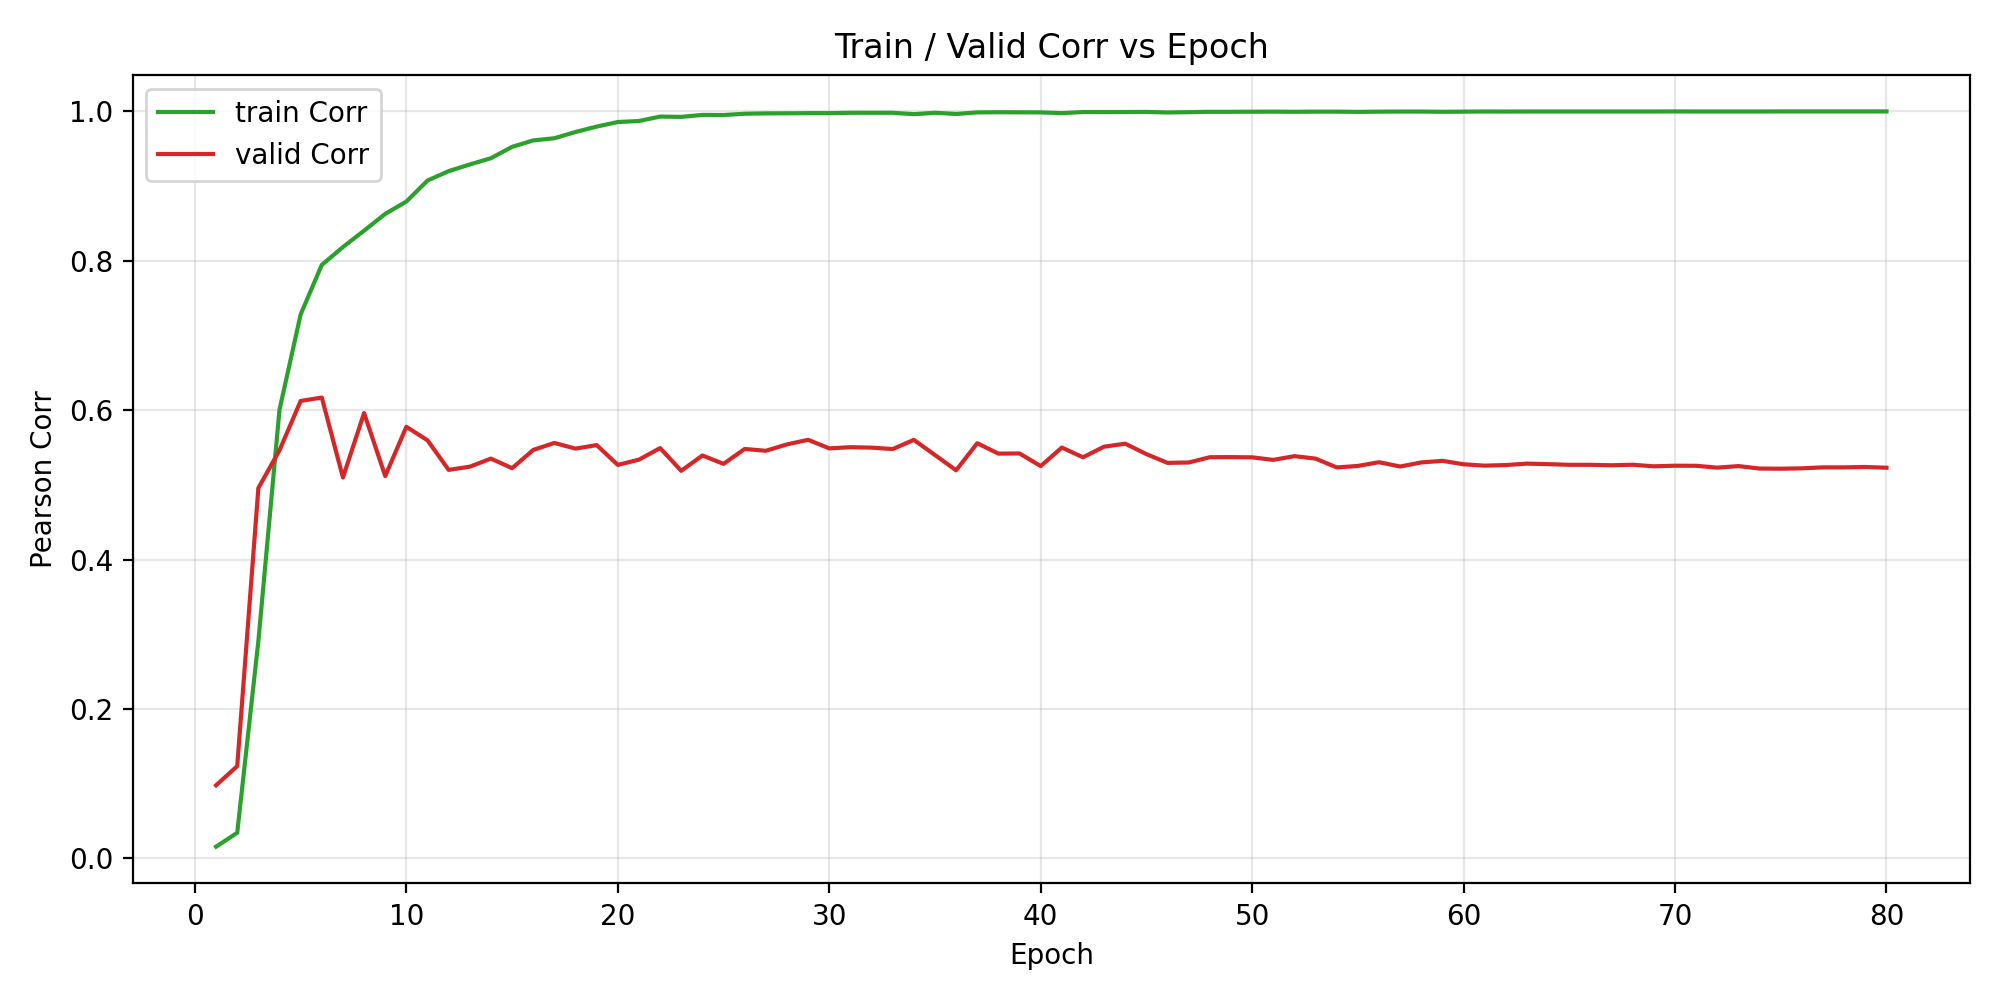
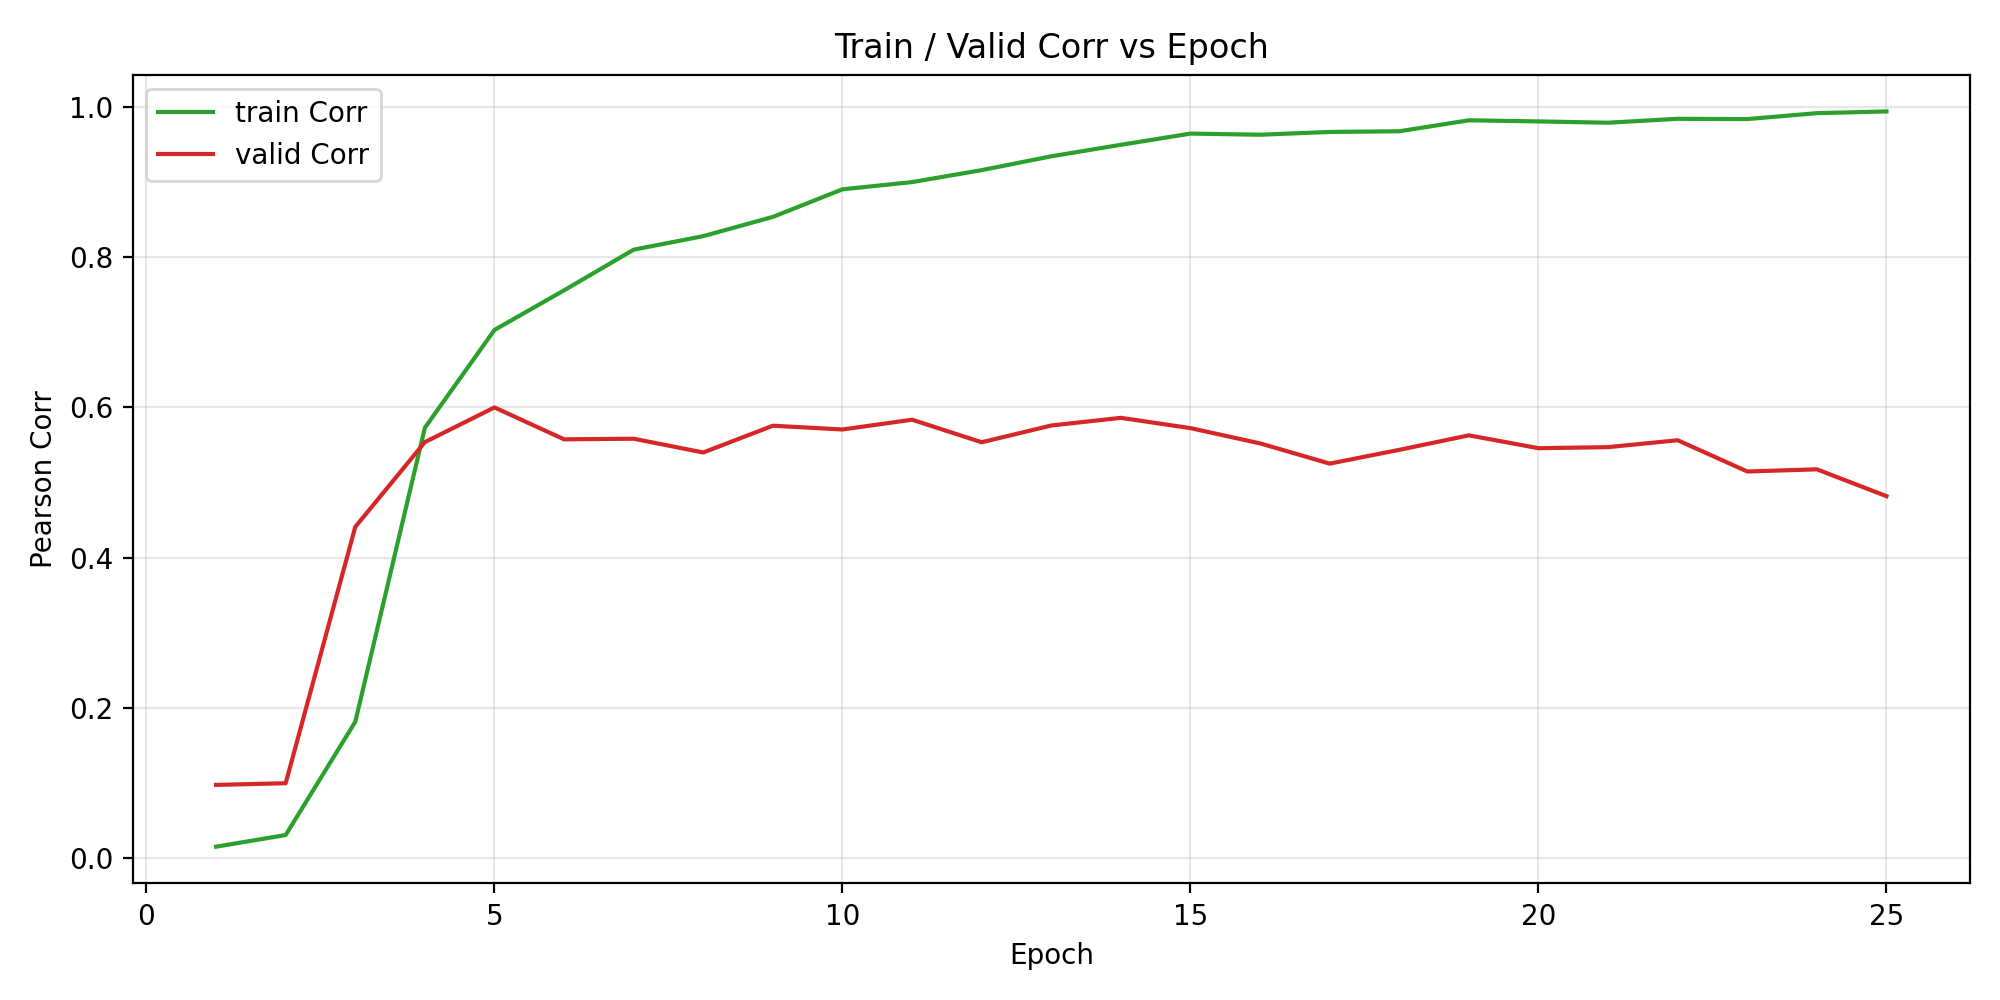
3.17

diff --git a/plot_valid_curve.py b/plot_valid_curve.py
@@ -2,11 +2,32 @@ import os
 import pandas as pd
 import matplotlib.pyplot as plt
 
-csv_path = "/home/yechenlu/KuDA/checkpoints/SIMS/coldstart/valid_curve.csv"
+csv_path = "/home/yechenlu/KuDA/checkpoints/SIMS/valid_curve.csv"
 
 assert os.path.isfile(csv_path), f"CSV not found: {csv_path}"
 
-df = pd.read_csv(csv_path)
+# 兼容混合格式：旧 run 写 7 列，新 run 写 9 列，取最后一次出现的表头及其后的数据
+with open(csv_path, encoding="utf-8") as f:
+    lines = f.readlines()
+header_idx = None
+for i in range(len(lines) - 1, -1, -1):
+    if lines[i].strip().startswith("epoch"):
+        header_idx = i
+        break
+if header_idx is None:
+    raise ValueError("No header line found in CSV")
+header = [c.strip() for c in lines[header_idx].strip().split(",")]
+n_cols = len(header)
+data_rows = []
+for i in range(header_idx + 1, len(lines)):
+    parts = [p.strip() for p in lines[i].strip().split(",")]
+    if len(parts) == n_cols:
+        data_rows.append(parts)
+df = pd.DataFrame(data_rows, columns=header)
+for c in header:
+    df[c] = pd.to_numeric(df[c], errors="coerce")
+df = df.dropna(subset=["epoch"])
+df["epoch"] = df["epoch"].astype(int)
 
 # 基本检查：只打印前 5 行确认读对文件（可按需注释掉）
 print(df.head())
